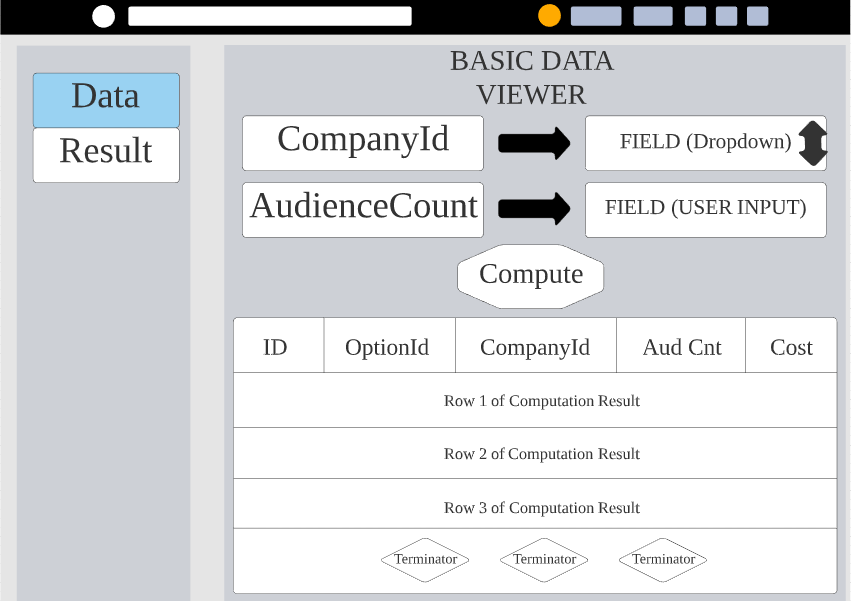
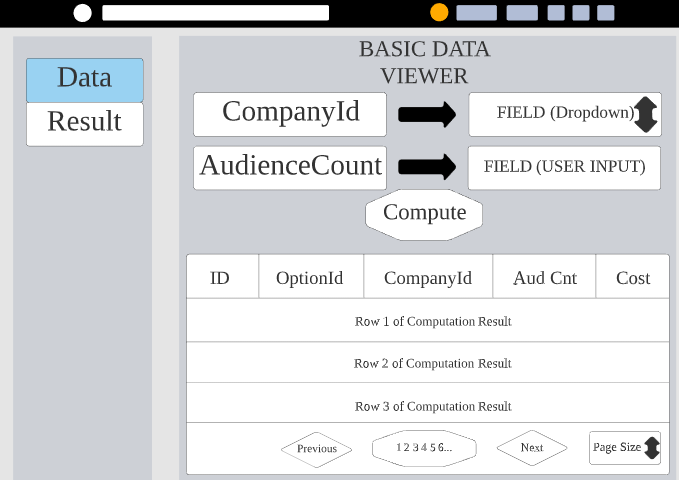
Polished up Wireframe Justifications

diff --git a/worksheets/wireframes/basic_frontend_data_viewer.md b/worksheets/wireframes/basic_frontend_data_viewer.md
@@ -4,33 +4,61 @@ This document should help you explain how your user interfaces are designed. You
 
 ## Wireframe
 
-> This is just an example, please find your own wireframe.
-
 ![Wireframe](assets/wireframe-data-viewer-frontend.png)
 
 ## Justifications
 
 ### Justification 1
 
-> This is just an example, please find your own justifications.
+![Justification1](assets/wireframe-data-viewer-justification1.png)
 
-![Justificaiton1](https://www.jquery-az.com/wp-content/uploads/2016/05/39.0_1-Bootstrap-data-table.png)
+Link for Justification 1: 
+
+https://codepen.io/heypablete/full/qdIsm
 
 #### Good Points
 
-1. Attributes shown at top and bottom can be useful for big table.
-2. Showing total number of entries can be useful for some instance.
-3. Pagination tool meets requirement
+1. Clean and Clear Display of the data
+2. Have dark mode. (Might do a white and dark mode for users.)
 
 #### Bad Points
 
-1. May need more than 1 search bar as we need to search by multiple attributes
-2. Data with many column may be bad.
+1. If there happens to be many columns, it might be not be pleasant for the user to view it as a whole in the website.
+2. The column headers and the content should have a brighter color when it is in dark mode.
+3. Dark Mode may be challenging.
 
 ### Justification 2
 
-> Find more existing work for reference.
+![Justification2](assets/wireframe-data-viewer-justification2.png)
+
+Link for Justification 2:
+
+https://www.abeautifulsite.net/adding-tips-to-bootstrap-4-dropdown-menus
+
+#### Good Points
+
+1. This dropdown can be used for ``companyId``. Through this, the user will never input an empty or error value which will be a pleasant experience for both the user and developer.
+
+#### Bad Points
+
+1. There are only three items that can be used for dropdown. (Have to extend)
+2. If there are too many companies, the dropdown might look cluttered, hence difficult to navigate.
 
 ### Justification 3
 
-> Find more existing work for reference.
+![Justification3](assets/wireframe-data-viewer-justification3.png)
+
+Link for Justification 3:
+
+https://mdbootstrap.com/docs/jquery/tables/datatables/
+
+#### Good Points
+
+1. The pagination system in the image fulfills all the requirements for this project.
+2. It shows the number of entries in 1 page out of the total entries, which may be useful for the viewers.
+3. When the user scrolls down the page, they may forget what the columns are meant for. So, a bottom description will be useful in this case.
+
+#### Bad Points
+
+1. Might be difficult to implement especially for the (1, 2, 3, 4, 5, etc.)
+2. Page Size is quite difficult to reach as it is at the top right. It would be better if it is aligned together with the page numbers in the bottom right corner.

diff --git a/worksheets/wireframes/basic_frontend_result_viewer.md b/worksheets/wireframes/basic_frontend_result_viewer.md
@@ -4,22 +4,22 @@ This document should help you explain how your user interfaces are designed. You
 
 ## Wireframe
 
-> This is just an example, please find your own wireframe.
-
 ![Wireframe](assets/wireframe-result-viewer-frontend.png)
 
 ## Justifications
 
 ### Justification 1
 
-![Wireframe](assets/wireframe-result-viewer-justification1.png)
+![Justificaiton1](assets/wireframe-result-viewer-justification1.png)
 
-![Justificaiton1](https://cristianabrante.github.io/GeneticsJsKnapsack/)
+Link for Justification 1: 
+
+https://cristianabrante.github.io/GeneticsJsKnapsack/ 
 
 #### Good Points
 
 1. Nice looking UI.
-2. Shows the best options using contrasting colours to make it stand out.
+2. Highlights the best options using contrasting colours to make it stand out (green for best options and yellow on options that are not chosen to match the background).
 
 #### Bad Points
 
@@ -28,31 +28,37 @@ This document should help you explain how your user interfaces are designed. You
 
 ### Justification 2
 
-![Wireframe](assets/wireframe-result-viewer-justification2.png)
+![Justificaiton2](assets/wireframe-result-viewer-justification2.png)
 
-![Justificaiton1](https://jacopo.cc/BB/)
+Link for Justification 2: 
+
+https://www.santacruzbicycles.com/en-US
 
 #### Good Points
 
-1. Shows appropriate data in a table.
+1. Dropdown menu allows users to see all bicycle options, which is useful for our website as the user will not have to type out the whole option id.
 
 #### Bad Points
 
-1. Uses different algorithm so there are irrelevent things on the webpage.
-2. Bad looking UI as the data is positioned at the top right of the webpage.
+1. May be difficult to implement.
+2. Having too many ids in dropdown may be too cluttered for the user.
 
 ### Justification 3
 
-![Wireframe](assets/wireframe-result-viewer-justification3.png)
+![Justificaiton3](assets/wireframe-result-viewer-justification3.png)
 
-![Justificaiton1](https://web.archive.org/web/20140223114908/http://karaffeltut.com/NEWKaraffeltutCom/Knapsack/knapsack.html)
+Link for Justification 3: 
+
+https://web.archive.org/web/20140223114908/http://karaffeltut.com/NEWKaraffeltutCom/Knapsack/knapsack.html
 
 #### Good Points
 
 1. Allows users to input approriate data into a table.
 2. Able to easily understand and use the website.
+3. Makes the final solution stand out using contrasting colours (green on black background)
 
 #### Bad Points
 
 1. UI looks outdated.
-2. Colours do not look pleasing.
+2. Colours do not look pleasing (Red links look glaring on black background).
+3. Font sizes are small.
